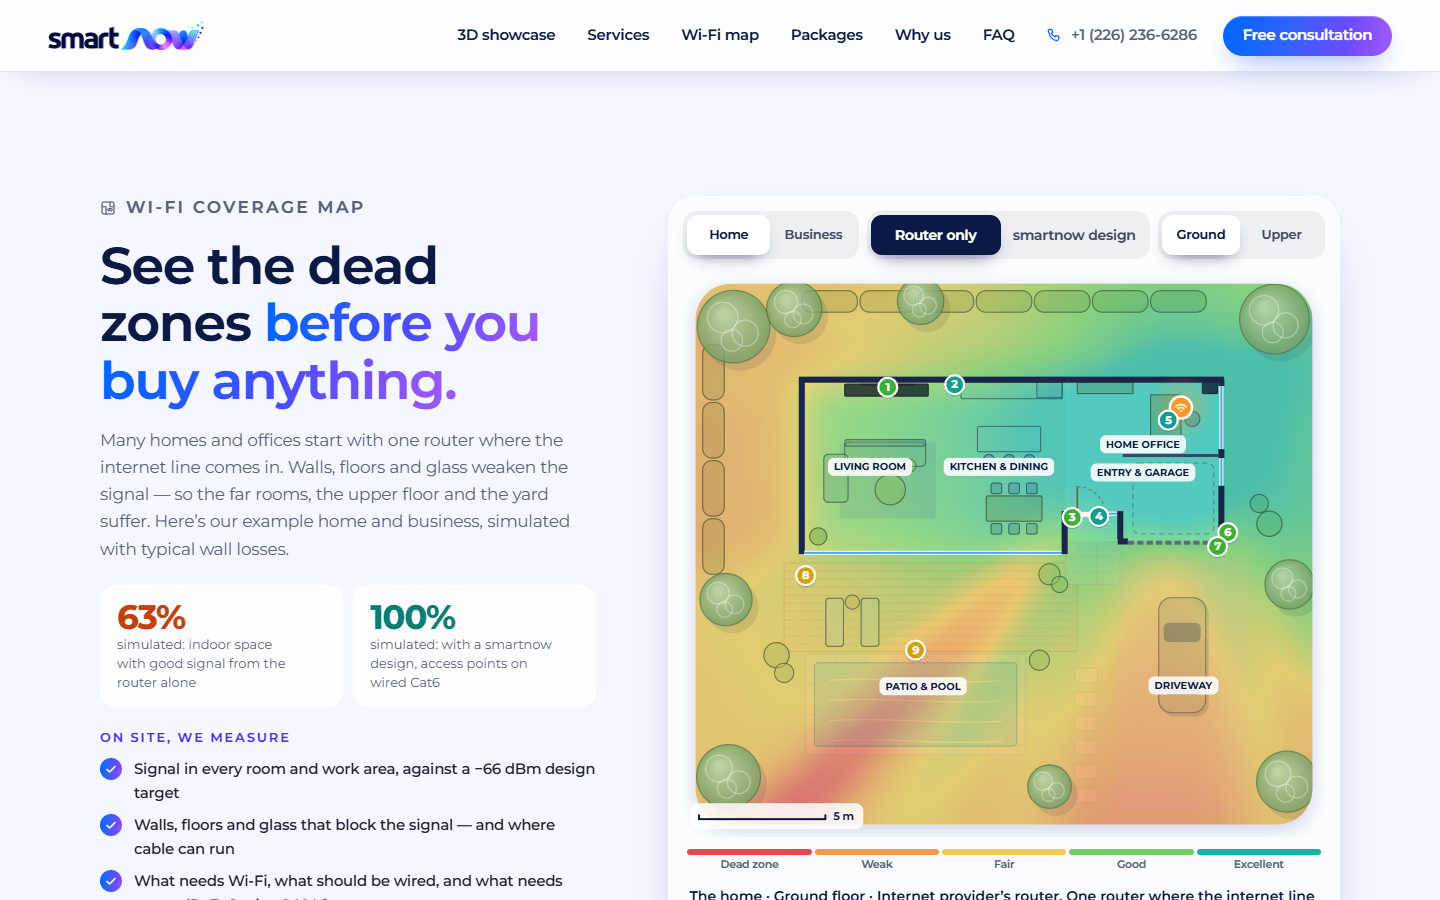
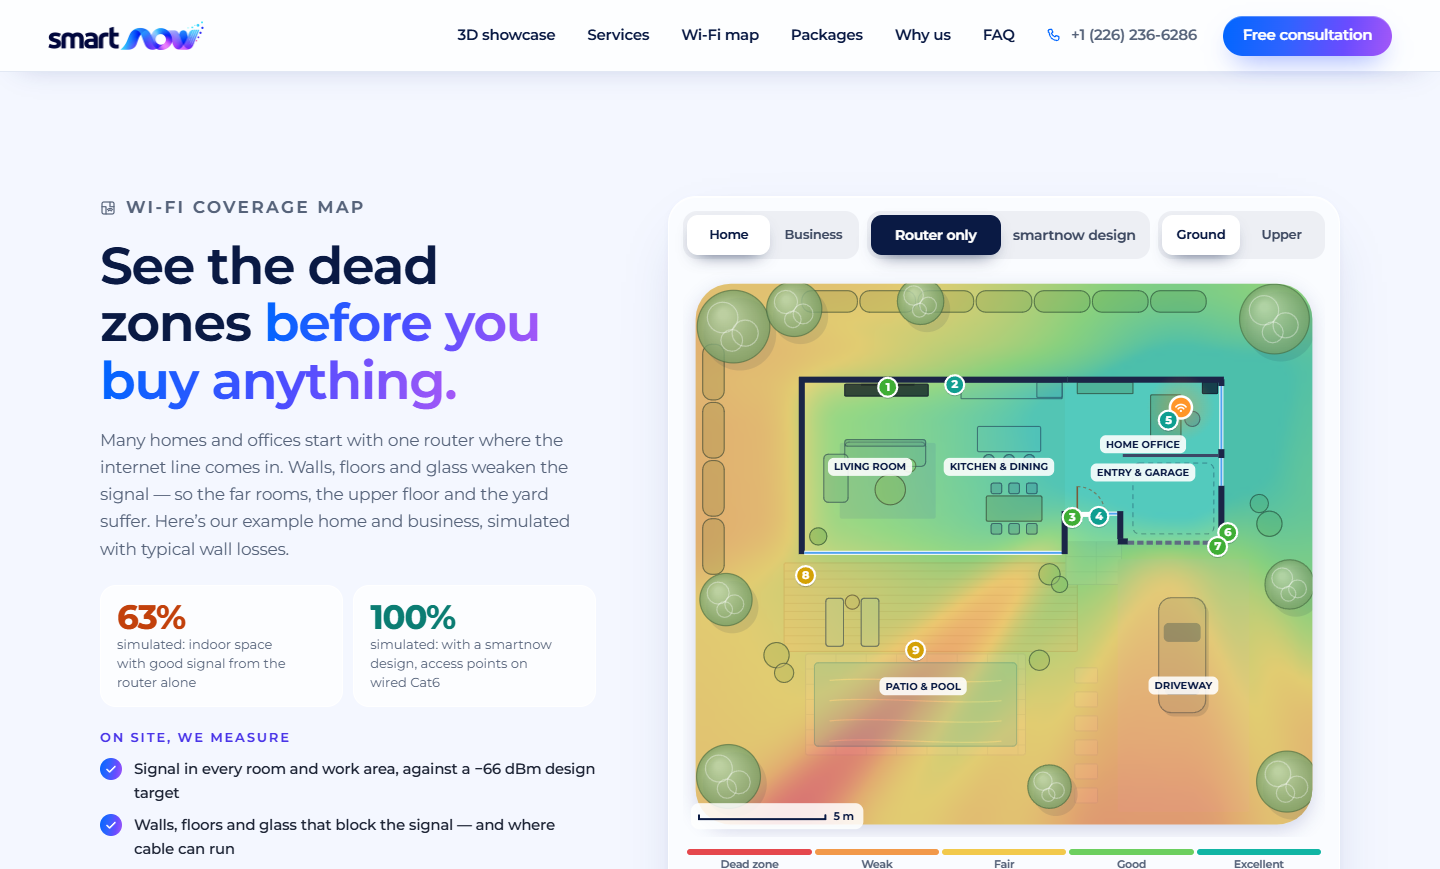
docs: tighten README wording and crop Wi-Fi map screenshot

diff --git a/README.md b/README.md
@@ -11,9 +11,9 @@ London, Ontario · Canadian PR · open to relocation
 
 #### [smart-now.ca](https://smart-now.ca) · website for a smart-home and networking installer in London, ON
 
-**Problem:** Wi-Fi coverage, security and automation are hard to picture before someone visits your home, so customers struggle to judge what they need.
+**Problem:** Wi-Fi coverage, security and automation are hard to picture before an installer visits, so homeowners struggle to judge what they need.
 
-**What I designed:** a site that shows the product instead of describing it, then turns interest into a qualified consultation request.
+**What I designed:** a site that shows the product instead of describing it, then turns interest into a consultation request.
 
 - Interactive three.js model of a home and a business, with scenes for lighting, security, Wi-Fi and energy
 - Multi-wall Wi-Fi coverage simulator: router-only versus a designed access-point layout
@@ -49,9 +49,8 @@ Turned an ops team's sell-through rules, warehouse limits and redistribution log
 ### How I work
 
 1. **Discovery first.** Sit with the people doing the work and write down the rules they actually use.
-2. **Written specs.** Agree on a spec before building. For one client that meant a 115-page blueprint for an Amazon-to-Zoho reconciliation system.
+2. **Written specs.** Agree on a spec before building. For example, a 115-page implementation blueprint for an Amazon-to-Zoho reconciliation system.
 3. **Verification gates.** Deterministic logic where correctness matters, LLMs where language helps, and tests or evaluations that fail the build.
-4. **Honest claims.** Say what is live, what is a demo, and what is still in progress.
 
 **Stack:** TypeScript, React, Next.js, Astro · Python · Postgres, Supabase, PostGIS · SwiftUI · OR-Tools, Z3 · Gemini API
 
